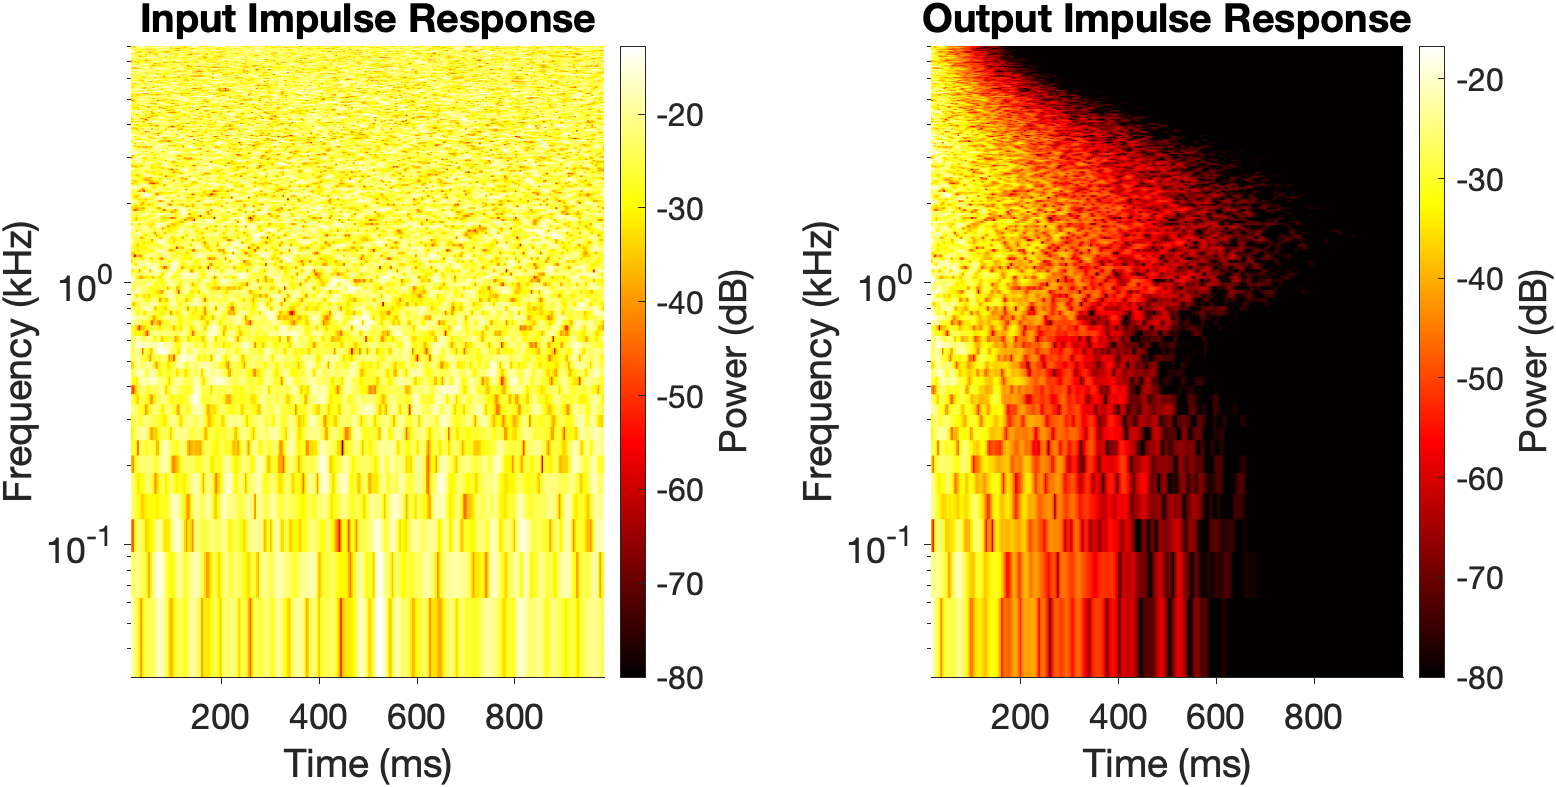
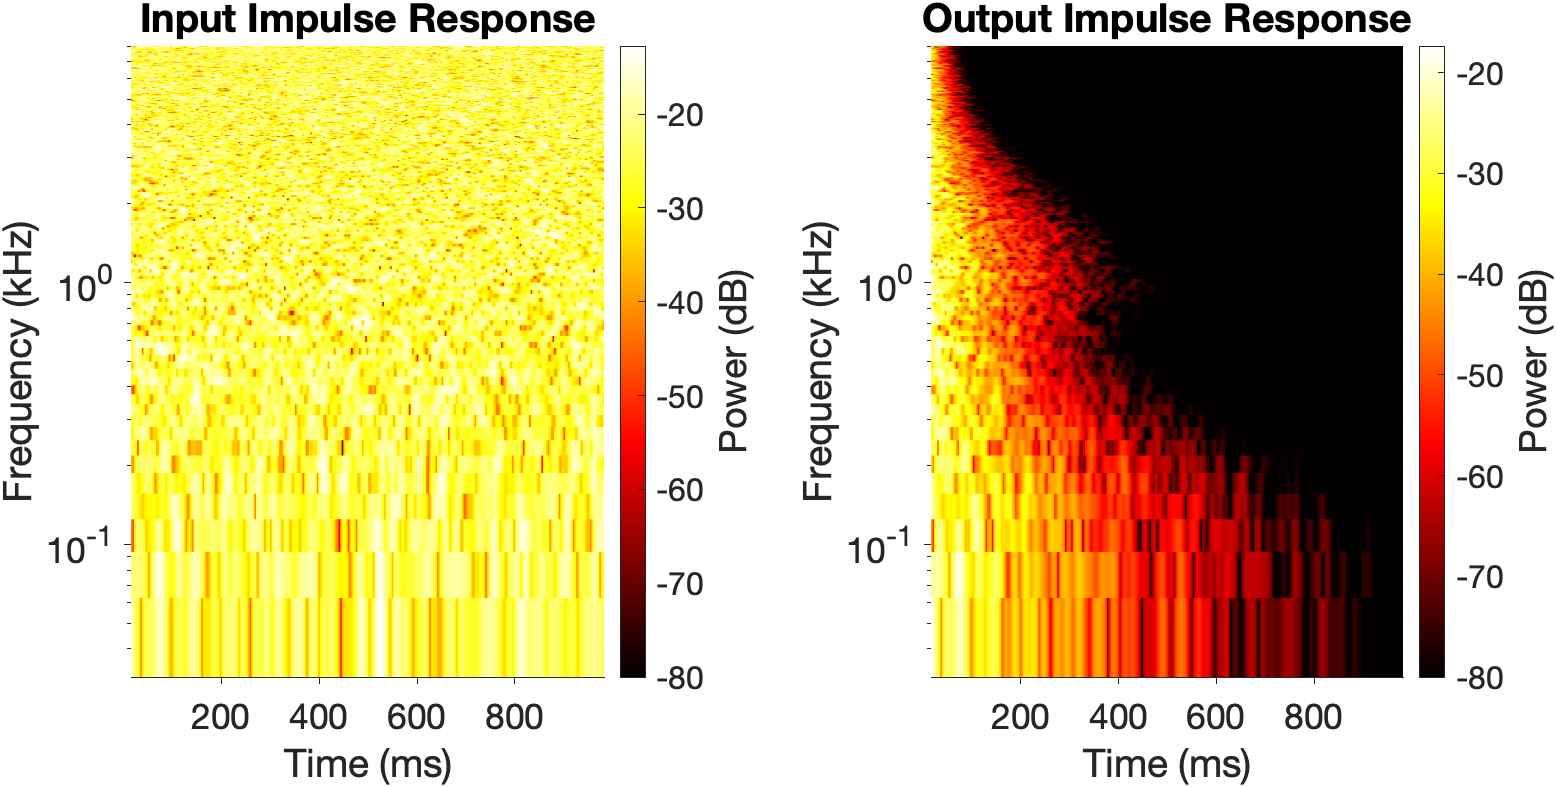
added SRIR generation tutorial to markdown

diff --git a/sh/sh_pdf_scatter.m b/sh/sh_pdf_scatter.m
@@ -1,0 +1,105 @@
+function D_pdf = sh_pdf_scatter(C_pdf, mode, lambda, is_real, options)
+%Transport the spherical harmonic density function towards uniform distribution
+%via attenuation of positive order SH coefficients
+
+%mode:      'lin'  Linear interpolation between input and uniform distributions
+%D_pdf(1, :)     = C_pdf(1, :);
+%D_pdf(2:end, m) = lambda^(m-1) * C_pdf(2:end, m);
+
+%mode:      'exp'   Exponential attenuation w.r.t. SH degree l
+%idx = (2*l+1)^2 + m
+%D_pdf(idx, n) = lambda^(options.exp_k * l * (n - 1)) * C_pdf(idx, n)
+
+%Author: Yuancheng Luo, 2026
+
+%%%%%%%%%%%%%%%%%%%%%%%%%%%%%%%%%%%%%%%%%%%%%%%%%%%%%%%%%%%%%%%%%%%%%%%%%%%
+%Inputs
+%C:                 [(P + 1)^2 x M] SH coefficients (max order P of M number of functions)
+%mode               String, attenuation method  {'lin', 'exp'}
+%lambda:            Decay factor between [0, 1]
+%is_real:           Logical, if true, evaluate real SH
+
+%options:           struct
+%options.exp_k:     Exponential decay factor per SH degree l, non-negative 
+
+%%%%%%%%%%%%%%%%%%%%%%%%%%%%%%%%%%%%%%%%%%%%%%%%%%%%%%%%%%%%%%%%%%%%%%%%%%%
+%Output
+%D:                 [(P + 1)^2 x M] SH coefficients (max order P of M number of functions)
+
+%%%%%%%%%%%%%%%%%%%%%%%%%%%%%%%%%%%%%%%%%%%%%%%%%%%%%%%%%%%%%%%%%%%%%%%%%%%
+%Sample usage:  Generate sequence of exponential decaying pdfs from Dirac expansion
+
+%max_odr = 12;
+%is_real = true;
+%M = 8000;
+%Fs = 16000;
+
+%C_pdf = sh_nrm(sh_enc_rbf('SqExp', max_odr, pi/2, 0, 0.25, is_real), 'Sum');
+
+%C_pdf = C_pdf * ones(1, M);
+%D_lin = sh_pdf_scatter(C_pdf, 'lin', 0.999, is_real);
+%D_exp_1 = sh_pdf_scatter(C_pdf, 'exp', 0.999, is_real, 'exp_k', 1);
+%D_exp_half = sh_pdf_scatter(C_pdf, 'exp', 0.999, is_real, 'exp_k', 0.5);
+
+%dB_lim = [-40, 20];
+%t = (0:(M-1)) / Fs;
+%sh_plt(C_pdf, 'horizontal', is_real, 'disp_phase', false, 'title_name', 'Original', 'dB_lim', dB_lim, 't', t);
+%sh_plt(D_lin, 'horizontal', is_real, 'disp_phase', false, 'title_name', 'Linear Scattering', 'dB_lim', dB_lim, 't', t);
+%sh_plt(D_exp_1, 'horizontal', is_real, 'disp_phase', false, 'title_name', 'Exponential k = 1 Scattering', 'dB_lim', dB_lim, 't', t);
+%sh_plt(D_exp_half, 'horizontal', is_real, 'disp_phase', false, 'title_name', 'Exponential k = 0.5 Scattering', 'dB_lim', dB_lim, 't', t);
+
+%%%%%%%%%%%%%%%%%%%%%%%%%%%%%%%%%%%%%%%%%%%%%%%%%%%%%%%%%%%%%%%%%%%%%%%%%%%
+%Sample usage:  Generate sequence of exponential decaying pdfs from DiracRandom expansion
+
+%max_odr = 12;
+%is_real = true;
+%M = 8000;
+%Fs = 16000;
+
+%rng(123);
+%C_pdf = sh_pdf_preset('FwdCenter', 'DiracRandom', max_odr, is_real);
+%C_pdf = C_pdf * ones(1, M);
+%D_lin = sh_pdf_scatter(C_pdf, 'lin', 0.999, is_real);
+%D_exp_1 = sh_pdf_scatter(C_pdf, 'exp', 0.999, is_real, 'exp_k', 1);
+%D_exp_half = sh_pdf_scatter(C_pdf, 'exp', 0.999, is_real, 'exp_k', 0.5);
+
+%dB_lim = [-24, -6];
+%t = (0:(M-1)) / Fs;
+%sh_plt(C_pdf, 'horizontal', is_real, 'disp_phase', false, 'title_name', 'Original', 'dB_lim', dB_lim, 't', t);
+%sh_plt(D_lin, 'horizontal', is_real, 'disp_phase', false, 'title_name', 'Linear Scattering', 'dB_lim', dB_lim, 't', t);
+%sh_plt(D_exp_1, 'horizontal', is_real, 'disp_phase', false, 'title_name', 'Exponential k = 1 Scattering', 'dB_lim', dB_lim, 't', t);
+%sh_plt(D_exp_half, 'horizontal', is_real, 'disp_phase', false, 'title_name', 'Exponential k = 0.5 Scattering', 'dB_lim', dB_lim, 't', t);
+
+arguments
+     C_pdf (:,:) double {coder.mustBeComplex} = complex(0);
+     mode (1,:) char {mustBeMember(mode, {'lin', 'exp'})} = 'exp'
+     lambda (1,1) double {mustBeNonnegative} = 0.99;
+     is_real (1,1) logical = false;
+
+     options.exp_k (1,1) double {mustBeNonnegative} = 0.5;
+end
+
+assert(sh_pdf_check(C_pdf, is_real), 'C_pdf is invalid density');
+
+[N_C, M] = size(C_pdf);
+P = sqrt(N_C) - 1;
+assert(P - floor(P) == 0, 'C_pdf invalid size');
+
+assert(lambda <= 1 && lambda >= 0, 'lambda must be between [0, 1]')
+
+D_pdf = C_pdf;
+
+if strcmp(mode, 'lin')
+
+    D_pdf(2:end, :) = bsxfun(@times, D_pdf(2:end, :), lambda.^(0:(M-1)) );
+
+elseif strcmp(mode, 'exp')
+
+    for l = 0:P
+        idx = (l^2 + 1) : (l+1)^2;
+        D_pdf(idx, :) = bsxfun(@times, D_pdf(idx, :), lambda.^(options.exp_k * l * (0:(M-1))  ) );
+    end
+    
+else
+    error('Unsupported mode')
+end

diff --git a/sh/sh_pdf_preset.m b/sh/sh_pdf_preset.m
@@ -1,5 +1,5 @@
 function C_pdf = sh_pdf_preset(dir_name, func_name, max_odr, is_real, options)
-%Generate PDF presets
+%Generate spherical harmonic probability density function presets
 
 %Author: Yuancheng Luo, 2026
 %%%%%%%%%%%%%%%%%%%%%%%%%%%%%%%%%%%%%%%%%%%%%%%%%%%%%%%%%%%%%%%%%%%%%%%%%%%
@@ -136,30 +136,30 @@ end
 %Function
 ell = options.ell;
 if strcmp(func_name, 'Dirac')
-    C_pdf = sh_msq(sh_enc_proj(max_odr_half, theta, phi, is_real));    
+    C_pdf = sh_msq(sh_enc_proj(max_odr_half, theta, phi, is_real), is_real);    
 
 elseif strcmp(func_name, 'SqExp')
-    C_pdf = sh_msq(sh_enc_rbf('SqExp', max_odr_half, theta, phi, ell, is_real));    
+    C_pdf = sh_msq(sh_enc_rbf('SqExp', max_odr_half, theta, phi, ell, is_real), is_real);    
 
 elseif strcmp(func_name, 'SqExpLeftRight')
-    C_pdf = sh_msq(sh_enc_rbf('SqExp', max_odr_half, pi/2,  pi/2, ell, is_real)) ...
-         +  sh_msq(sh_enc_rbf('SqExp', max_odr_half, pi/2, -pi/2, ell, is_real));
+    C_pdf = sh_msq(sh_enc_rbf('SqExp', max_odr_half, pi/2,  pi/2, ell, is_real), is_real) ...
+         +  sh_msq(sh_enc_rbf('SqExp', max_odr_half, pi/2, -pi/2, ell, is_real), is_real);
 
 elseif strcmp(func_name, 'SqExpTopBot')
-    C_pdf = sh_msq(sh_enc_rbf('SqExp', max_odr_half, pi/2 - pi/3,  0, ell, is_real)) ...
-         +  sh_msq(sh_enc_rbf('SqExp', max_odr_half, pi/2 + pi/3,  0, ell, is_real));
+    C_pdf = sh_msq(sh_enc_rbf('SqExp', max_odr_half, pi/2 - pi/3,  0, ell, is_real), is_real) ...
+         +  sh_msq(sh_enc_rbf('SqExp', max_odr_half, pi/2 + pi/3,  0, ell, is_real), is_real);
 
 elseif strcmp(func_name, 'SqExpNorthSouth')
-    C_pdf = sh_msq(sh_enc_rbf('SqExp', max_odr_half, 0,  0, ell, is_real)) ...
-         +  sh_msq(sh_enc_rbf('SqExp', max_odr_half, pi,  0, ell, is_real));
+    C_pdf = sh_msq(sh_enc_rbf('SqExp', max_odr_half, 0,  0, ell, is_real), is_real) ...
+         +  sh_msq(sh_enc_rbf('SqExp', max_odr_half, pi,  0, ell, is_real), is_real);
 
 elseif strcmp(func_name, 'SqExpDiagLeft')
-    C_pdf = sh_msq(sh_enc_rbf('SqExp', max_odr_half, pi/2 - pi/3,  pi/3, ell, is_real)) ...
-         +  sh_msq(sh_enc_rbf('SqExp', max_odr_half, pi/2 + pi/3,  -pi/3, ell, is_real));
+    C_pdf = sh_msq(sh_enc_rbf('SqExp', max_odr_half, pi/2 - pi/3,  pi/3, ell, is_real), is_real) ...
+         +  sh_msq(sh_enc_rbf('SqExp', max_odr_half, pi/2 + pi/3,  -pi/3, ell, is_real), is_real);
 
 elseif strcmp(func_name, 'SqExpDiagRight')
-    C_pdf = sh_msq(sh_enc_rbf('SqExp', max_odr_half, pi/2 - pi/3,  -pi/3, ell, is_real)) ...
-         +  sh_msq(sh_enc_rbf('SqExp', max_odr_half, pi/2 + pi/3,  pi/3, ell, is_real));
+    C_pdf = sh_msq(sh_enc_rbf('SqExp', max_odr_half, pi/2 - pi/3,  -pi/3, ell, is_real), is_real) ...
+         +  sh_msq(sh_enc_rbf('SqExp', max_odr_half, pi/2 + pi/3,  pi/3, ell, is_real), is_real);
 
 elseif strcmp(func_name, 'DiracRandom')
     num_func = 20;

diff --git a/plt/plot_gp_T60_exp_fit_example.m b/plt/plot_gp_T60_exp_fit_example.m
@@ -1,4 +1,4 @@
-function plot_gp_T60_exp_fit
+function plot_gp_T60_exp_fit_example
 %Plot examples of exp filter fit to sampling T60 from GP posterior evaluation grid
 
 %Author: Yuancheng Luo, 2026
@@ -80,7 +80,7 @@ g_RT60  = cell(1, N_E);
 g_MP    = cell(1, N_E);
 h_g_fig = cell(1, N_E);
 
-idx_fit = N_E;
+idx_fit = 1;
 [g_RT60{idx_fit}, g_MP{idx_fit}, h_g_fig{idx_fit}] = ft_exp_design(N_taps, 'RT60',  'enable_disp', true, 'Fs', Fs, 'RT60_sec', T60_uni_sec(:, idx_fit), 'tol0', tol0);
 h_g_fig{idx_fit}.Position = [100, 100, 600, 480];
 
@@ -90,7 +90,7 @@ h_g_fig{idx_fit}.Position = [100, 100, 600, 480];
 rng(521345);
 T = 1; % Duration seconds
 h = randn(1, ceil(T * Fs));
-[f_1, h_f_exp_fig] = ft_exp_conv_opt(h, g_RT60{N_E}, ...
+[f_1, h_f_exp_fig] = ft_exp_conv_opt(h, g_RT60{idx_fit}, ...
     'enable_disp', true, 'Fs', Fs, 'N_FFT', 512);
 
 %%%%%%%%%%%%%%%%%%%%%%%%%%%%%%%%%%%%%%%%%%%%%%%%%%%%%%%%%%%%%%%%%%%%%%%%%%%

diff --git a/sh/sh_pdf_transport.m b/sh/sh_pdf_transport.m
@@ -19,7 +19,7 @@ function [E_pdf] = sh_pdf_transport(C_pdf, D_pdf, t, mode, is_real, options)
 %               'SlicedWass':           Minimize least-squares reconstruction error of SH coefficients under 
 %                                       sliced Wasserstein projections of CDFs onto uniform distributed great circles
 %               'LinearInterp':         Linear interpolation:       (1-t) * (Y(theta, phi) * C_pdf) + t * (Y(theta, phi) * D_pdf)
-%               'GeometricInterp':      Geometric interpolation:    (Y(theta, phi) * C_pdf)^(1-t) + (Y(theta, phi) * D_pdf)^t
+%               'GeometricInterp':      Geometric interpolation:    (Y(theta, phi) * C_pdf)^(1-t) * (Y(theta, phi) * D_pdf)^t
 
 %is_real:   Logical, if true, evaluate real SH
 

diff --git a/plt/plot_gp_optimize_example.m b/plt/plot_gp_optimize_example.m
@@ -1,4 +1,4 @@
-function plot_gp_optimize
+function plot_gp_optimize_example
 % Maximize marginal likelihood w.r.t. hyperparameters and log-T60 samples drawn 
 % from another Gaussian process
 
@@ -90,5 +90,5 @@ if ~isfolder(out_dir)
     mkdir(out_dir);
 end
 
-exportgraphics(h_fig_prior_grid, fullfile(out_dir, 'opt_GP_prior_grid.png'));
-exportgraphics(h_fig_post_grid, fullfile(out_dir,  'opt_GP_post_grid.png'));
+% exportgraphics(h_fig_prior_grid, fullfile(out_dir, 'opt_GP_prior_grid.png'));
+% exportgraphics(h_fig_post_grid, fullfile(out_dir,  'opt_GP_post_grid.png'));

diff --git a/tutorial_t60_aug.md b/tutorial_t60_aug.md
@@ -10,7 +10,9 @@ The high-level steps are as follows:
     * [Drawing T60 samples from GP prior and posterior distributions](#sampling-from-gp-prior-and-posterior-distributions)
     * [Optimizing GP covariance hyper parameters](#optimizing-gaussian-process-covariance-function-hyper-parameters)
 * [Exponentiating FIR Optimization:](#fitting-exponentiating-fir-to-t60-functions) Fit short finite impulse response (FIR) exponentiating filters $\bf{g}$ to sampled $T_{60}(\omega, \theta, \phi)$ functions
-* [Generating and Augmenting Spatial RIR:](#generating-and-augmenting-colorless-spatial-room-impulse-responses) Generate colorless spatial RIRs $\bf{h}$ and apply time-varying exponentiated convolution $\textbf{f} = f(\bf{g}, \bf{h})$
+* [Generating and Augmenting Spatial RIRs:](#generating-and-augmenting-colorless-spatial-room-impulse-responses) Generate colorless spatial RIRs $\bf{h}$ and apply time-varying exponentiated convolution $\textbf{f} = f(\bf{g}, \bf{h})$
+  * [Spherical Harmonic Echo Density Model](#spherical-harmonic-echo-density-profile-model)
+  * [Spherical Harmonic Image-source Model](#spherical-harmonic-image-source-model)
 
 
 ## Sampling T60 Functions from Gaussian Processes
@@ -244,7 +246,7 @@ We can sample T60 functions from either a GP prior or posterior distribution via
 
 ### Optimizing Gaussian Process Covariance Function Hyper Parameters
 
-We can optimize the covariance function’s hyper parameters by maximizing the marginal data likelihood following the example in `plot_gp_optimize.m`. Let us draw some sample log-T60 functions from the following GP prior distribution:
+We can optimize the covariance function’s hyper parameters by maximizing the marginal data likelihood following the example in `plot_gp_optimize_example.m`. Let us draw some sample log-T60 functions from the following GP prior distribution:
 
 ```
 %%%%%%%%%%%%%%%%%%%%%%%%%%%%%%%%%%%%%%%%%%%%%%%%%%%%%%%%%%%%%%%%%%%%%%%%%%%
@@ -374,7 +376,7 @@ h_f_9.Position = [100, 100, 600, 480];
 
 where the target minimum-phase response overshoots $0$ dB in the high-frequency band (14 - 18 kHz). Our optimized exponentiating filter stays below the unity upper bound and is near-minimum phase given equal number of filter taps to minimum-phase target responses.
 
-Let us now combine the GP T60 sampling method from the previous section with our filter fitting method, and apply exponentiating filter to a Gaussian noise sequence in the `plot_gp_T60_exp_fit.m` function.
+Let us now combine the GP T60 sampling method from the previous section with our filter fitting method, and apply exponentiating filter to a Gaussian noise sequence in the `plot_gp_T60_exp_fit_example.m` function.
 
 * Sample a log-T60 field from the GP posterior:
 
@@ -464,7 +466,7 @@ Let us now combine the GP T60 sampling method from the previous section with our
   g_MP    = cell(1, N_E);
   h_g_fig = cell(1, N_E);
   
-  idx_fit = N_E;
+  idx_fit = 1;
   [g_RT60{idx_fit}, g_MP{idx_fit}, h_g_fig{idx_fit}] = ft_exp_design(N_taps, 'RT60',  'enable_disp', true, 'Fs', Fs, 'RT60_sec', T60_uni_sec(:, idx_fit), 'tol0', tol0);
   h_g_fig{idx_fit}.Position = [100, 100, 600, 480];
   ```
@@ -478,14 +480,78 @@ Let us now combine the GP T60 sampling method from the previous section with our
   rng(521345);
   T = 1; % Duration seconds
   h = randn(1, ceil(T * Fs));
-  [f_1, h_f_exp_fig] = ft_exp_conv_opt(h, g_RT60{N_E}, ...
+  [f_1, h_f_exp_fig] = ft_exp_conv_opt(h, g_RT60{idx_fit}, ...
       'enable_disp', true, 'Fs', Fs, 'N_FFT', 512);
   ```
     <img src="./figs/figs_t60/sample_GP_post_exp_fit_exp_conv.png" alt="Exponentiated filtered white-noise" width="480"/>
   
 ## Generating and Augmenting Colorless Spatial Room Impulse Responses
 
+We can generate spatial RIRs that distribute acoustic echos or reflections over the spherical coordinates. We model the latter via a mixture of weighted surface-delta functions $\delta(\theta, \phi \, | \, \theta', \phi') $ following the expansion of Dirac functions over the spherical harmonic (SH) domain from the delta function’s expansion in the Legendre polynomials and the Legendre addition theorem:
 
-[^PACIOREK_NS]: Paciorek, C., & Schervish, M. (2003). Nonstationary covariance functions for Gaussian process regression. Advances in neural information processing systems, 16.
+$$
+\delta(\theta, \phi \, | \, \theta', \phi') = \sum_{l=0}^{L} \sum_{m=-l}^l Y_l^m (\theta, \phi) \, Y_l^{m*} (\theta', \phi’),
+$$
+where $Y_l^m(\theta, \phi)$ are spherical harmonic basis functions of degree $l$, order $m$, and $Y_l^{m*}(\theta', \phi’)$ is the complex conjugate at the spherical coordinate expansion center $(\theta’,\phi')$. 
 
-[^OPPENHEIM_DSP]: Oppenheim, Alan V., and Ronald W. Schafer. "Discrete-time signal processing.” (1999).
+
+### Spherical Harmonic Echo Density Profile Model
+
+The distribution of a room’s echo arrival times given an echo density profile[^ABEL_EDP] can be modeled by a Poisson process[^HUANG_EDP]. We can augment the echo density profile with a probability distribution function (PDF) of the acoustic reflection’s direction in spherical coordinates over time. Valid density functions over the spherical coordinates can be expressed via sum-of-magnitude square SH expansions[^LUO_MAGSQSH]. The SH-Poisson process RIR is implemented in the function `sh_rand_pp.m`.
+
+Let us generate a sample SH-Poisson RIR in the function `plot_sh_rand_pp_example.m`:
+
+* Specify a square exponential of chordal distance density function with no, linear, and exponential scattering over time:
+  ```
+  %%%%%%%%%%%%%%%%%%%%%%%%%%%%%%%%%%%%%%%%%%%%%%%%%%%%%%%%%%%%%%%%%%%%%%%%%%%
+  % Generate probability density functions over spherical coordinates
+  %%%%%%%%%%%%%%%%%%%%%%%%%%%%%%%%%%%%%%%%%%%%%%%%%%%%%%%%%%%%%%%%%%%%%%%%%%%
+  max_odr = 12;
+  is_real = true;
+  
+  T	= 0.5;		% Duration
+  Fs	= 16000;	% Sample rate
+  M	= ceil(T * Fs);	% Number of samples
+  
+  % Squared exponential of chordal distance radial basis function
+  C_pdf = sh_nrm(sh_enc_rbf('SqExp', max_odr, pi/2, 0, 0.25, is_real), 'Sum');
+  
+  C_pdf = C_pdf * ones(1, M);
+  D_lin = sh_pdf_scatter(C_pdf, 'lin', 0.999, is_real);
+  D_exp = sh_pdf_scatter(C_pdf, 'exp', 0.999, is_real, 'exp_k', 0.5);
+  
+  dB_lim = [-40, 20];
+  t = (0:(M-1)) / Fs;
+  sh_plt(C_pdf, 'horizontal', is_real, 'disp_phase', false, 'title_name_override', 'Squared Exponential Kernel', 'dB_lim', dB_lim, 't', t);
+  sh_plt(D_lin, 'horizontal', is_real, 'disp_phase', false, 'title_name_override', 'Linear Scattering', 'dB_lim', dB_lim, 't', t);
+  sh_plt(D_exp, 'horizontal', is_real, 'disp_phase', false, 'title_name_override', 'Exponential k = 0.5 Scattering', 'dB_lim', dB_lim, 't', t);
+  ```
+	| No Scattering | Linear Scattering | Exponential Scattering |
+  | --- | --- | --- |
+  |<img src="./figs/figs_t60/rand_pp_pdf.png" alt="GCP-ISM N = 1" width="400"/>|<img src="./figs/figs_t60/rand_pp_pdf_lin.png" alt="GCP-ISM N = 2" width="400"/>|<img src="./figs/figs_t60/rand_pp_pdf_exp.png" alt="GCP-ISM N = 3" width="400"/>|
+  
+	where no scattering holds the density constant over time, linear scattering mixes with uniform density over time, and exponential scattering transports towards uniform density over time.
+
+* Specify an echo density profile:
+* Realize the spatial RIR: 
+    
+### Spherical Harmonic Image-Source Model
+
+We can further generalize specular reflection models, such as the image-method[^ALLEN_ISM], towards separable applications between the acoustic source and receiver’s directivity, and the room reflections in SH-ISM formulations[^LUO_SHISM]. The room’s acoustic reflections are expanded along all pair-wise SH bases of image-source and image-receiver delta functions in a tensor of size `[(L_S+1)^2 x (L_R+1)^2 x T]` for finite max-order `L_S`, `L_R` respectively over time duration `T` samples. The source and receiver’s far-field directivity are independently expanded along SH bases, and can be arbitrarily rotated as represent different combinations of source and receiver orientations in an augmented dataset. The RIR is therefore realized by left and right multiplying the tensor by rotated SH expansion coefficients of the source and receiver directivity respectively.
+
+The SH-ISM model is implemented in the function `sh_ism.m`. 
+
+
+[^PACIOREK_NS]: Paciorek, C., & Schervish, M. (2003). "Nonstationary covariance functions for Gaussian process regression". Advances in neural information processing systems, 16.
+
+[^OPPENHEIM_DSP]: Oppenheim, Alan V., and Ronald W. Schafer. (1999). "Discrete-time signal processing.”.
+
+[^ABEL_EDP]: Abel, J. And Huang, P. (2006). "A simple, robust measure of reverberation echo density". Journal of the Audio Engineering Society.
+
+[^HUANG_EDP]: Huang, P. and Abel, J.S., (2007, October). "Aspects of reverberation echo density". Audio Engineering Society Convention 123. Audio Engineering Society.
+
+[^LUO_MAGSQSH]: Luo, Y. (2021). "Spherical harmonic covariance and magnitude function encodings for beamformer design". EURASIP Journal on Audio, Speech, and Music Processing, 2021(1), 41.
+
+[^ALLEN_ISM]: Allen, J. B., & Berkley, D. A. (1979). "Image method for efficiently simulating small‐room acoustics". The Journal of the Acoustical Society of America, 65(4), 943-950.
+
+[^LUO_SHISM]: Luo, Y., & Kim, W. (2020). "Fast source-room-receiver acoustics modeling". In 2020 28th European Signal Processing Conference (EUSIPCO) (pp. 51-55). IEEE.
